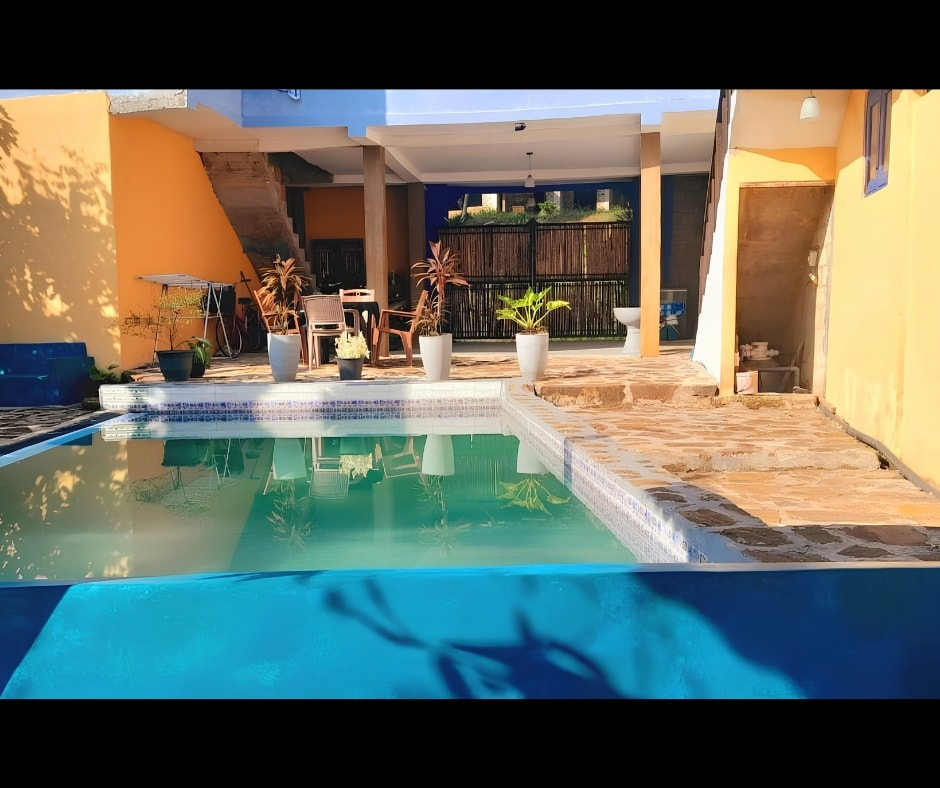
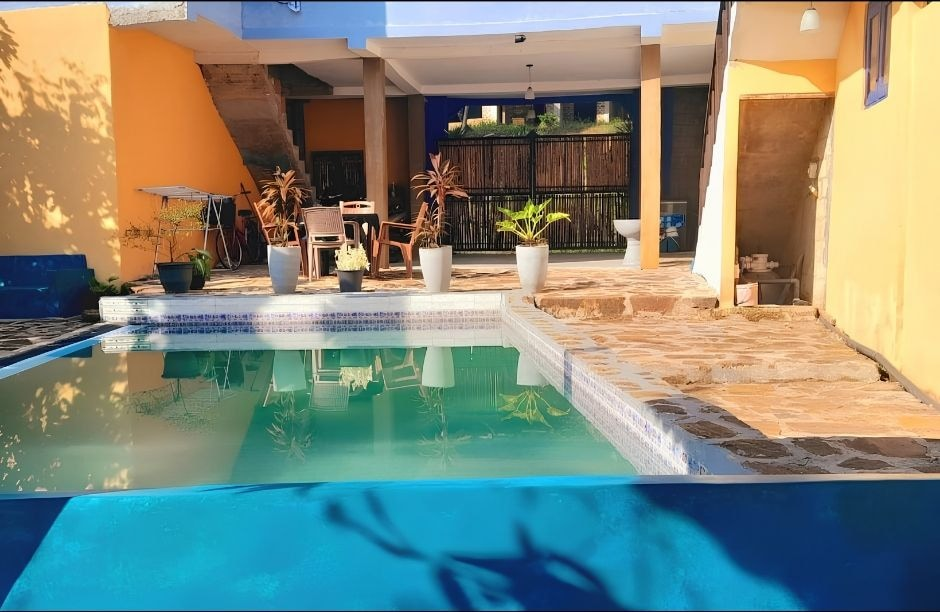
feat: refine Hero section elements, professional lining phone typography, and complete mobile optimization

diff --git a/components/Hero.tsx b/components/Hero.tsx
@@ -1,14 +1,13 @@
 "use client";
 
 import React from "react";
-import Image from "next/image";
 import { motion } from "framer-motion";
-import { Calendar, Compass, BedDouble, Users, Waves, MapPin, Sparkles } from "lucide-react";
+import { BedDouble, Users, Waves, MapPin } from "lucide-react";
 import { VILLA_DATA } from "@/data/villaData";
 
 interface HeroProps {
-  onOpenBooking: () => void;
-  onExplore: () => void;
+  onOpenBooking?: () => void;
+  onExplore?: () => void;
 }
 
 export default function Hero({ onOpenBooking, onExplore }: HeroProps) {
@@ -36,10 +35,10 @@ export default function Hero({ onOpenBooking, onExplore }: HeroProps) {
   ];
 
   return (
-    <section id="home" className="relative w-full min-h-[94vh] lg:min-h-screen flex flex-col justify-between pt-28 pb-8 sm:pt-32 sm:pb-10 overflow-hidden bg-noir-950">
+    <section id="home" className="relative w-full min-h-[85vh] sm:min-h-[90vh] lg:min-h-screen flex flex-col justify-between pt-24 pb-6 sm:pt-32 sm:pb-10 overflow-hidden bg-noir-950">
       
       {/* Full-bleed edge-to-edge Cinematic Background Video with Poster Fallback */}
-      <div className="absolute inset-0 z-0 w-full h-full overflow-hidden">
+      <div className="absolute inset-0 z-0 w-full h-full overflow-hidden pointer-events-none">
         <video
           autoPlay
           loop
@@ -52,28 +51,20 @@ export default function Hero({ onOpenBooking, onExplore }: HeroProps) {
         </video>
         
         {/* Filmic Lighting Grading & Gradient Depth for Ultra-Crisp Legibility */}
-        <div className="absolute inset-0 bg-noir-950/45 z-10" />
+        <div className="absolute inset-0 bg-noir-950/40 z-10" />
         <div className="absolute inset-0 bg-gradient-to-r from-noir-950/95 via-noir-950/75 to-transparent md:w-[70%] lg:w-[60%] z-10" />
-        <div className="absolute inset-x-0 bottom-0 h-40 bg-gradient-to-t from-sand-50 via-sand-50/70 to-transparent z-10" />
+        <div className="absolute inset-x-0 bottom-0 h-36 sm:h-44 bg-gradient-to-t from-sand-50 via-sand-50/70 to-transparent z-10" />
       </div>
 
       {/* Main Editorial Hero Content */}
       <div className="relative z-20 max-w-7xl mx-auto px-4 sm:px-6 lg:px-8 w-full flex-1 flex items-center">
-        <div className="max-w-xl lg:max-w-2xl py-6 sm:py-12 space-y-5">
+        <div className="max-w-xl lg:max-w-2xl py-4 sm:py-10 space-y-4 sm:space-y-6">
           <motion.div
             initial={{ opacity: 0, y: 25 }}
             animate={{ opacity: 1, y: 0 }}
             transition={{ duration: 0.85, ease: [0.16, 1, 0.3, 1] }}
-            className="space-y-4 sm:space-y-6"
+            className="space-y-3 sm:space-y-5"
           >
-            {/* Geographic Coordinates & Estate Label */}
-            <div className="inline-flex items-center gap-2.5 px-3.5 py-1.5 rounded-full bg-noir-900/80 backdrop-blur-md border border-gold-400/30">
-              <span className="w-2 h-2 rounded-full bg-gold-400 animate-pulse" />
-              <span className="text-[10px] sm:text-xs font-semibold tracking-[0.22em] text-gold-300 uppercase font-sans">
-                6.0125° N, 80.2448° E • THALPE NORTH, GALLE
-              </span>
-            </div>
-
             {/* Dramatic Cinematic Headline */}
             <h1 className="font-editorial text-3xl sm:text-6xl lg:text-[72px] text-white font-light leading-[1.04] tracking-[-0.03em] drop-shadow-md">
               A Private Sanctuary <br />
@@ -84,52 +75,29 @@ export default function Hero({ onOpenBooking, onExplore }: HeroProps) {
             <p className="text-sand-100/90 text-xs sm:text-base lg:text-lg leading-relaxed max-w-lg font-sans font-light drop-shadow-xs">
               Escape into tropical tranquility at <span className="text-white font-medium">{VILLA_DATA.officialName}</span>. Six spacious air-conditioned suites with private en-suite baths, swimming pool, full kitchen, and starlit BBQ gardens in peaceful Samagiya.
             </p>
-
-            {/* Action Buttons */}
-            <div className="flex flex-wrap items-center gap-3 pt-2">
-              <motion.button
-                whileHover={{ scale: 1.02 }}
-                whileTap={{ scale: 0.98 }}
-                onClick={onOpenBooking}
-              className="bg-gold-500 hover:bg-gold-600 text-white px-5 sm:px-7 py-3 sm:py-3.5 rounded-xl font-ui font-bold text-btn tracking-[0.2em] uppercase shadow-xl shadow-gold-500/20 transition-all flex items-center gap-2"
-              >
-                <Calendar className="w-4 h-4" />
-                <span>Reserve Villa ($140/nt)</span>
-              </motion.button>
-
-              <motion.button
-                whileHover={{ scale: 1.02 }}
-                whileTap={{ scale: 0.98 }}
-                onClick={onExplore}
-                className="bg-white/15 hover:bg-white/25 text-white border border-white/30 px-5 sm:px-6 py-3 sm:py-3.5 rounded-xl font-medium text-xs sm:text-sm tracking-wider uppercase backdrop-blur-md transition-all flex items-center gap-2"
-              >
-                <Compass className="w-4 h-4 text-gold-400" />
-                <span>Explore 6 Rooms</span>
-              </motion.button>
-            </div>
           </motion.div>
         </div>
       </div>
 
-      {/* Floating 4-Stat Architectural Bar */}
+      {/* Floating 4-Stat Architectural Bar (Fully Responsive Grid) */}
       <div className="relative z-20 max-w-7xl mx-auto px-4 sm:px-6 lg:px-8 w-full mt-2 sm:mt-6">
         <motion.div
           initial={{ opacity: 0, y: 30 }}
           animate={{ opacity: 1, y: 0 }}
-          transition={{ duration: 0.8, delay: 0.25, ease: [0.16, 1, 0.3, 1] }}
-          className="bg-white/95 backdrop-blur-md rounded-2xl shadow-xl shadow-black/10 border border-sand-200 p-3.5 sm:p-5 lg:p-6"
+          transition={{ duration: 0.8, delay: 0.2, ease: [0.16, 1, 0.3, 1] }}
+          className="bg-white/95 backdrop-blur-md rounded-2xl shadow-xl shadow-black/10 border border-sand-200 p-3 sm:p-5 lg:p-6"
         >
-          <div className="grid grid-cols-2 md:grid-cols-4 gap-3 sm:gap-6 divide-y sm:divide-y-0 sm:divide-x divide-sand-200">
+          <div className="grid grid-cols-2 md:grid-cols-4 gap-2.5 sm:gap-6 md:divide-x md:divide-sand-200">
             {highlights.map((item, index) => {
               const Icon = item.icon;
               return (
                 <div
                   key={index}
-                  className={`flex items-center gap-2.5 sm:gap-4 ${
-                    index > 0 ? "pt-2.5 sm:pt-0 sm:pl-4 lg:pl-6" : ""
+                  className={`flex items-center gap-2 sm:gap-4 ${
+                    index > 0 ? "md:pl-4 lg:pl-6" : ""
                   }`}
                 >
-                  <div className="w-9 h-9 sm:w-11 sm:h-11 rounded-xl bg-gold-50 border border-gold-200 text-gold-600 flex items-center justify-center shrink-0">
+                  <div className="w-8 h-8 sm:w-11 sm:h-11 rounded-xl bg-gold-50 border border-gold-200 text-gold-600 flex items-center justify-center shrink-0">
                     <Icon className="w-4 h-4 sm:w-5 sm:h-5" />
                   </div>
                   <div>

diff --git a/components/Footer.tsx b/components/Footer.tsx
@@ -3,7 +3,7 @@
 import React from "react";
 import Image from "next/image";
 import Link from "next/link";
-import { MessageCircle, MapPin, Lock, Facebook } from "lucide-react";
+import { MessageCircle, MapPin, Lock, Facebook, Phone } from "lucide-react";
 import { VILLA_DATA } from "@/data/villaData";
 
 export default function Footer() {
@@ -25,14 +25,14 @@ export default function Footer() {
             <h3 className="font-serif text-2xl sm:text-3xl font-bold tracking-widest text-charcoal-900 uppercase">
               {VILLA_DATA.officialName}
             </h3>
-            <span className="text-[10px] tracking-[0.3em] uppercase text-gold-600 font-semibold block font-ui">
+            <span className="text-[10px] sm:text-[11px] tracking-[0.28em] uppercase text-gold-600 font-semibold block font-ui mt-0.5">
               THALPE NORTH • UNAWATUNA • GALLE
             </span>
           </div>
         </div>
 
-        {/* 2. Social & OTA Booking Icons (Centered circular buttons) */}
-        <div className="flex flex-wrap items-center justify-center gap-2.5 sm:gap-3">
+        {/* 2. Social & OTA Booking Icons (Centered responsive pills) */}
+        <div className="flex flex-wrap items-center justify-center gap-2 sm:gap-3">
           {/* Booking.com Official Icon */}
           <a
             href={VILLA_DATA.social.bookingCom}
@@ -40,10 +40,10 @@ export default function Footer() {
             rel="noreferrer"
             aria-label="Booking.com Official Listing"
             title="Book on Booking.com"
-            className="h-10 px-3 rounded-full bg-[#003580] hover:bg-[#00224f] text-white flex items-center justify-center gap-1.5 transition-all shadow-xs group"
+            className="h-10 px-3.5 rounded-full bg-[#003580] hover:bg-[#00224f] text-white flex items-center justify-center gap-1.5 transition-all shadow-xs group"
           >
             <span className="font-extrabold text-sm tracking-tighter text-[#00BAFC]">B.</span>
-            <span className="text-[11px] font-bold tracking-tight">Booking.com</span>
+            <span className="text-xs font-bold tracking-tight font-ui">Booking.com</span>
           </a>
 
           {/* Airbnb Official Icon */}
@@ -53,12 +53,12 @@ export default function Footer() {
             rel="noreferrer"
             aria-label="Airbnb Official Listing"
             title="Book on Airbnb"
-            className="h-10 px-3 rounded-full bg-[#FF5A5F] hover:bg-[#e0484d] text-white flex items-center justify-center gap-1.5 transition-all shadow-xs group"
+            className="h-10 px-3.5 rounded-full bg-[#FF5A5F] hover:bg-[#e0484d] text-white flex items-center justify-center gap-1.5 transition-all shadow-xs group"
           >
             <svg className="w-4 h-4 fill-current" viewBox="0 0 32 32" xmlns="http://www.w3.org/2000/svg">
               <path d="M16 1c2.008 0 3.463.963 4.751 3.269l.533 1.025c1.954 3.83 6.114 12.54 7.1 14.836 1.88 4.382.49 9.387-3.327 11.233-1.428.69-3.003.887-4.577.581-2.023-.393-3.63-1.682-4.48-3.036-.85 1.354-2.457 2.643-4.48 3.036-1.574.306-3.149.109-4.577-.581-3.817-1.846-5.207-6.851-3.327-11.233.986-2.296 5.146-11.006 7.1-14.836l.533-1.025C12.537 1.963 13.992 1 16 1zm0 2c-1.398 0-2.392.684-3.414 2.508l-.517.994c-1.93 3.784-6.06 12.434-7.018 14.665-1.48 3.45-.457 7.378 2.527 8.82 1.077.52 2.261.666 3.447.435 1.996-.388 3.655-2.008 4.095-3.692.176-.673.804-1.144 1.498-1.144.694 0 1.322.471 1.498 1.144.44 1.684 2.099 3.304 4.095 3.692 1.186.231 2.37.085 3.447-.435 2.984-1.442 4.007-5.37 2.527-8.82-.958-2.231-5.088-10.881-7.018-14.665l-.517-.994C18.392 3.684 17.398 3 16 3zm0 7c2.209 0 4 1.791 4 4 0 1.942-1.385 3.562-3.23 3.931l-.27.039-.5-.035C13.844 17.587 12 15.65 12 14c0-2.209 1.791-4 4-4zm0 2c-1.105 0-2 .895-2 2 0 .963.681 1.767 1.586 1.954l.164.026.25.02c1.105 0 2-.895 2-2s-.895-2-2-2z"/>
             </svg>
-            <span className="text-[11px] font-bold tracking-tight">Airbnb</span>
+            <span className="text-xs font-bold tracking-tight font-ui">Airbnb</span>
           </a>
 
           {/* Google Maps */}
@@ -113,7 +113,7 @@ export default function Footer() {
         </div>
 
         {/* 3. Main Navigation Links (Centered uppercase) */}
-        <nav className="flex flex-wrap items-center justify-center gap-x-6 gap-y-2 text-xs sm:text-sm font-semibold tracking-wider uppercase text-charcoal-700 font-ui">
+        <nav className="flex flex-wrap items-center justify-center gap-x-5 sm:gap-x-6 gap-y-2 text-xs sm:text-sm font-semibold tracking-wider uppercase text-charcoal-700 font-ui">
           <Link href="#home" className="hover:text-gold-600 transition-colors">HOME</Link>
           <Link href="#about" className="hover:text-gold-600 transition-colors">ABOUT US</Link>
           <Link href="#facilities" className="hover:text-gold-600 transition-colors">ROOMS &amp; FACILITIES</Link>
@@ -138,24 +138,25 @@ export default function Footer() {
           <span>Up to 12 Guests</span>
         </div>
 
-        {/* 5. GET IN TOUCH Section */}
-        <div className="pt-2 flex flex-col items-center space-y-2">
+        {/* 5. GET IN TOUCH Section with Modern Professional Lining Typography */}
+        <div className="pt-2 flex flex-col items-center space-y-3 w-full">
           <span className="text-[11px] font-bold tracking-[0.25em] text-gold-600 uppercase font-ui">
-            GET IN TOUCH WITH HOST M. MANGALA
+            DIRECT HOST RESERVATIONS — M. MANGALA
           </span>
-          <div className="flex flex-wrap items-center justify-center gap-x-3 gap-y-1">
+          
+          <div className="flex flex-wrap items-center justify-center gap-2 sm:gap-3 max-w-2xl">
             {VILLA_DATA.phones.map((p, idx) => (
-              <React.Fragment key={idx}>
-                {idx > 0 && <span className="text-charcoal-400 font-light hidden sm:inline">/</span>}
-                <a
-                  href={`tel:${p.replace(/\s+/g, "")}`}
-                  className="font-serif text-base sm:text-xl font-bold text-charcoal-900 hover:text-gold-600 transition-colors"
-                >
-                  {p}
-                </a>
-              </React.Fragment>
+              <a
+                key={idx}
+                href={`tel:${p.replace(/\s+/g, "")}`}
+                className="inline-flex items-center gap-1.5 px-3 py-1.5 rounded-xl bg-sand-50 border border-sand-300/80 hover:border-gold-400 hover:bg-gold-50/50 font-ui font-semibold text-xs sm:text-sm text-charcoal-900 hover:text-gold-700 tracking-wider transition-all shadow-2xs group"
+              >
+                <Phone className="w-3 h-3 text-gold-600 group-hover:scale-110 transition-transform" />
+                <span className="font-mono">{p}</span>
+              </a>
             ))}
           </div>
+
           <p className="text-xs text-charcoal-500 flex items-center justify-center gap-1.5 pt-0.5">
             <MapPin className="w-3.5 h-3.5 text-gold-600 shrink-0" />
             <span>{VILLA_DATA.location} (1.5 km to Beach)</span>

diff --git a/components/ContactLocation.tsx b/components/ContactLocation.tsx
@@ -87,12 +87,12 @@ export default function ContactLocation() {
                         <div className="w-8 h-8 rounded-lg bg-gold-100 text-gold-700 flex items-center justify-center">
                           <Phone className="w-4 h-4" />
                         </div>
-                        <span className="text-sm font-semibold text-charcoal-900">{phone}</span>
+                        <span className="text-xs sm:text-sm font-semibold font-mono tracking-tight text-charcoal-900">{phone}</span>
                       </div>
                       <div className="flex items-center gap-1.5">
                         <a
                           href={`tel:${phone.replace(/\s+/g, "")}`}
-                          className="px-2.5 py-1 rounded-lg bg-sand-100 text-charcoal-700 text-xs font-medium hover:bg-sand-200 transition-colors"
+                          className="px-2.5 py-1 rounded-lg bg-sand-100 text-charcoal-700 text-xs font-semibold hover:bg-sand-200 transition-colors font-ui"
                         >
                           Call
                         </a>
@@ -100,7 +100,7 @@ export default function ContactLocation() {
                           href={`https://wa.me/${rawNum}`}
                           target="_blank"
                           rel="noreferrer"
-                          className="px-2.5 py-1 rounded-lg bg-[#25D366] text-white text-xs font-medium hover:bg-[#20ba59] transition-colors"
+                          className="px-2.5 py-1 rounded-lg bg-[#25D366] text-white text-xs font-semibold hover:bg-[#20ba59] transition-colors font-ui"
                         >
                           WhatsApp
                         </a>
@@ -116,7 +116,7 @@ export default function ContactLocation() {
                   <MapPin className="w-4 h-4" />
                 </div>
                 <div>
-                  <span className="text-[11px] font-bold uppercase text-charcoal-400 block">Villa Address</span>
+                  <span className="text-[11px] font-bold uppercase text-charcoal-400 block font-ui">Villa Address</span>
                   <p className="text-xs sm:text-sm font-medium text-charcoal-800 mt-0.5">
                     {VILLA_DATA.location}
                   </p>
@@ -129,29 +129,39 @@ export default function ContactLocation() {
               {/* Check times */}
               <div className="grid grid-cols-2 gap-3 pt-1">
                 <div className="p-3 rounded-xl bg-white border border-sand-200 text-center">
-                  <span className="text-[10px] uppercase font-bold text-charcoal-400 block">Check-in</span>
-                  <span className="text-xs sm:text-sm font-bold text-charcoal-900">{VILLA_DATA.checkInTime}</span>
+                  <span className="text-[10px] uppercase font-bold text-charcoal-400 block font-ui">Check-in</span>
+                  <span className="text-xs sm:text-sm font-bold text-charcoal-900 font-ui">{VILLA_DATA.checkInTime}</span>
                 </div>
                 <div className="p-3 rounded-xl bg-white border border-sand-200 text-center">
-                  <span className="text-[10px] uppercase font-bold text-charcoal-400 block">Check-out</span>
-                  <span className="text-xs sm:text-sm font-bold text-charcoal-900">{VILLA_DATA.checkOutTime}</span>
+                  <span className="text-[10px] uppercase font-bold text-charcoal-400 block font-ui">Check-out</span>
+                  <span className="text-xs sm:text-sm font-bold text-charcoal-900 font-ui">{VILLA_DATA.checkOutTime}</span>
                 </div>
               </div>
 
               {/* Booking Platforms Badge Strip */}
-              <div className="p-3 rounded-xl bg-gold-50/70 border border-gold-200/80">
-                <span className="text-[11px] font-bold uppercase tracking-wider text-gold-800 block mb-1.5">
+              <div className="p-3.5 rounded-xl bg-gold-50/70 border border-gold-200/80">
+                <span className="text-[11px] font-bold uppercase tracking-wider text-gold-800 block mb-2 font-ui">
                   Also Available On
                 </span>
-                <div className="flex items-center gap-3">
-                  <span className="px-3 py-1 bg-white border border-sand-300 rounded-lg text-xs font-semibold text-charcoal-800 shadow-2xs">
+                <div className="flex flex-wrap items-center gap-2">
+                  <a
+                    href={VILLA_DATA.social.airbnb}
+                    target="_blank"
+                    rel="noreferrer"
+                    className="px-3 py-1.5 bg-white border border-sand-300 hover:border-[#FF5A5F] rounded-lg text-xs font-bold text-charcoal-800 hover:text-[#FF5A5F] shadow-2xs transition-colors"
+                  >
                     Airbnb
-                  </span>
-                  <span className="px-3 py-1 bg-white border border-sand-300 rounded-lg text-xs font-semibold text-charcoal-800 shadow-2xs">
+                  </a>
+                  <a
+                    href={VILLA_DATA.social.bookingCom}
+                    target="_blank"
+                    rel="noreferrer"
+                    className="px-3 py-1.5 bg-white border border-sand-300 hover:border-[#003580] rounded-lg text-xs font-bold text-charcoal-800 hover:text-[#003580] shadow-2xs transition-colors"
+                  >
                     Booking.com
-                  </span>
-                  <span className="text-[11px] text-charcoal-500 italic">
-                    (Direct booking via WhatsApp offers best rate)
+                  </a>
+                  <span className="text-[11px] text-charcoal-500 italic block sm:inline">
+                    (Direct WhatsApp offers best rate)
                   </span>
                 </div>
               </div>

diff --git a/components/RatesBooking.tsx b/components/RatesBooking.tsx
@@ -211,10 +211,10 @@ export default function RatesBooking({ onOpenBookingModal }: RatesBookingProps) 
                   <button
                     key={i}
                     onClick={() => handleDirectCall(phone)}
-                    className="flex items-center justify-center gap-2 py-2.5 px-3 rounded-xl bg-white border border-gold-200/90 text-xs font-semibold text-charcoal-800 hover:text-gold-700 hover:border-gold-400 hover:bg-gold-50/40 shadow-2xs transition-all"
+                    className="flex items-center justify-center gap-1.5 py-2.5 px-3 rounded-xl bg-white border border-gold-200/90 text-xs font-semibold text-charcoal-800 hover:text-gold-700 hover:border-gold-400 hover:bg-gold-50/40 shadow-2xs transition-all font-ui"
                   >
                     <Phone className="w-3.5 h-3.5 text-gold-600 shrink-0" />
-                    <span className="whitespace-nowrap">{phone}</span>
+                    <span className="whitespace-nowrap font-mono tracking-tight">{phone}</span>
                   </button>
                 ))}
               </div>
@@ -245,7 +245,7 @@ export default function RatesBooking({ onOpenBookingModal }: RatesBookingProps) 
 
                 <div className="sm:text-right bg-sand-50 sm:bg-transparent p-3 sm:p-0 rounded-2xl border sm:border-0 border-sand-200">
                   <div className="flex items-baseline sm:justify-end gap-1.5">
-                    <span className="font-serif text-3xl sm:text-4xl font-semibold text-charcoal-950 tracking-tight">
+                    <span className="font-ui text-3xl sm:text-4xl font-bold text-charcoal-950 tracking-tight">
                       {currInfo.symbol}{nightlyRate.toLocaleString()}
                     </span>
                     <span className="text-xs text-charcoal-500 font-sans font-medium">/ night</span>
@@ -323,7 +323,7 @@ export default function RatesBooking({ onOpenBookingModal }: RatesBookingProps) 
                       >
                         -
                       </button>
-                      <span className="flex-1 text-center font-serif font-bold text-charcoal-950 text-sm sm:text-base">
+                      <span className="flex-1 text-center font-ui font-bold text-charcoal-950 text-sm sm:text-base">
                         {nights} {nights === 1 ? "Night" : "Nights"}
                       </span>
                       <button
@@ -343,7 +343,7 @@ export default function RatesBooking({ onOpenBookingModal }: RatesBookingProps) 
                     <span>
                       {currInfo.symbol}{nightlyRate.toLocaleString()} × {nights} {nights === 1 ? "night" : "nights"}
                     </span>
-                    <span className="font-semibold text-charcoal-900">
+                    <span className="font-ui font-bold text-charcoal-900">
                       {currInfo.symbol}{totalPrice.toLocaleString()}
                     </span>
                   </div>

diff --git a/components/About.tsx b/components/About.tsx
@@ -38,7 +38,7 @@ export default function About({ onOpenBooking }: AboutProps) {
             transition={{ duration: 0.8, ease: [0.16, 1, 0.3, 1] }}
             className="lg:col-span-5 relative"
           >
-            <div className="relative rounded-3xl overflow-hidden shadow-2xl border-4 border-white bg-sand-200 aspect-[4/5] group">
+            <div className="relative rounded-3xl overflow-hidden shadow-2xl border-4 border-white bg-sand-200 aspect-[4/3] sm:aspect-[1/1] lg:aspect-[4/5] group">
               <Image
                 src="/images/villa/pool-real.webp"
                 alt="M.S.A Anu Villa Private Swimming Pool and Courtyard Patio"
@@ -46,10 +46,10 @@ export default function About({ onOpenBooking }: AboutProps) {
                 sizes="(max-width: 1024px) 100vw, 40vw"
                 className="object-cover object-center transition-transform duration-700 group-hover:scale-105"
               />
-              <div className="absolute inset-0 bg-gradient-to-t from-noir-950/60 via-transparent to-transparent opacity-70" />
+              <div className="absolute inset-0 bg-gradient-to-t from-noir-950/60 via-transparent to-transparent opacity-70 pointer-events-none" />
 
               {/* Floating Architectural Badge */}
-              <div className="absolute bottom-6 left-6 right-6 p-4 rounded-2xl bg-white/95 backdrop-blur-md border border-white/40 shadow-lg">
+              <div className="absolute bottom-4 left-4 right-4 sm:bottom-6 sm:left-6 sm:right-6 p-3.5 sm:p-4 rounded-2xl bg-white/95 backdrop-blur-md border border-white/40 shadow-lg">
                 <div className="flex items-center justify-between">
                   <div>
                     <span className="text-[10px] uppercase font-bold tracking-widest text-gold-600 block">
@@ -59,7 +59,7 @@ export default function About({ onOpenBooking }: AboutProps) {
                       6 Suites • 12 Guests Max
                     </h4>
                   </div>
-                  <span className="text-xs font-bold text-gold-700 bg-gold-50 px-2.5 py-1 rounded-lg border border-gold-200">
+                  <span className="font-ui text-xs sm:text-sm font-bold text-gold-700 bg-gold-50 px-3 py-1 rounded-xl border border-gold-200">
                     $140 / nt
                   </span>
                 </div>
